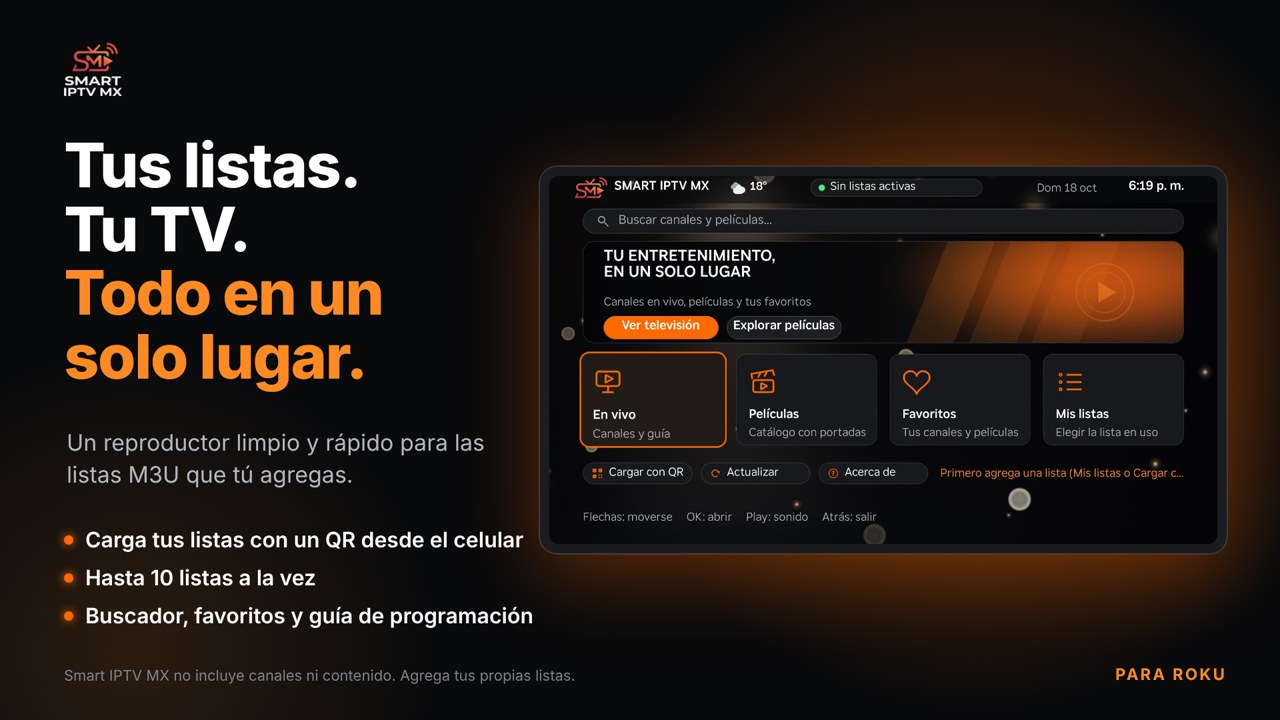
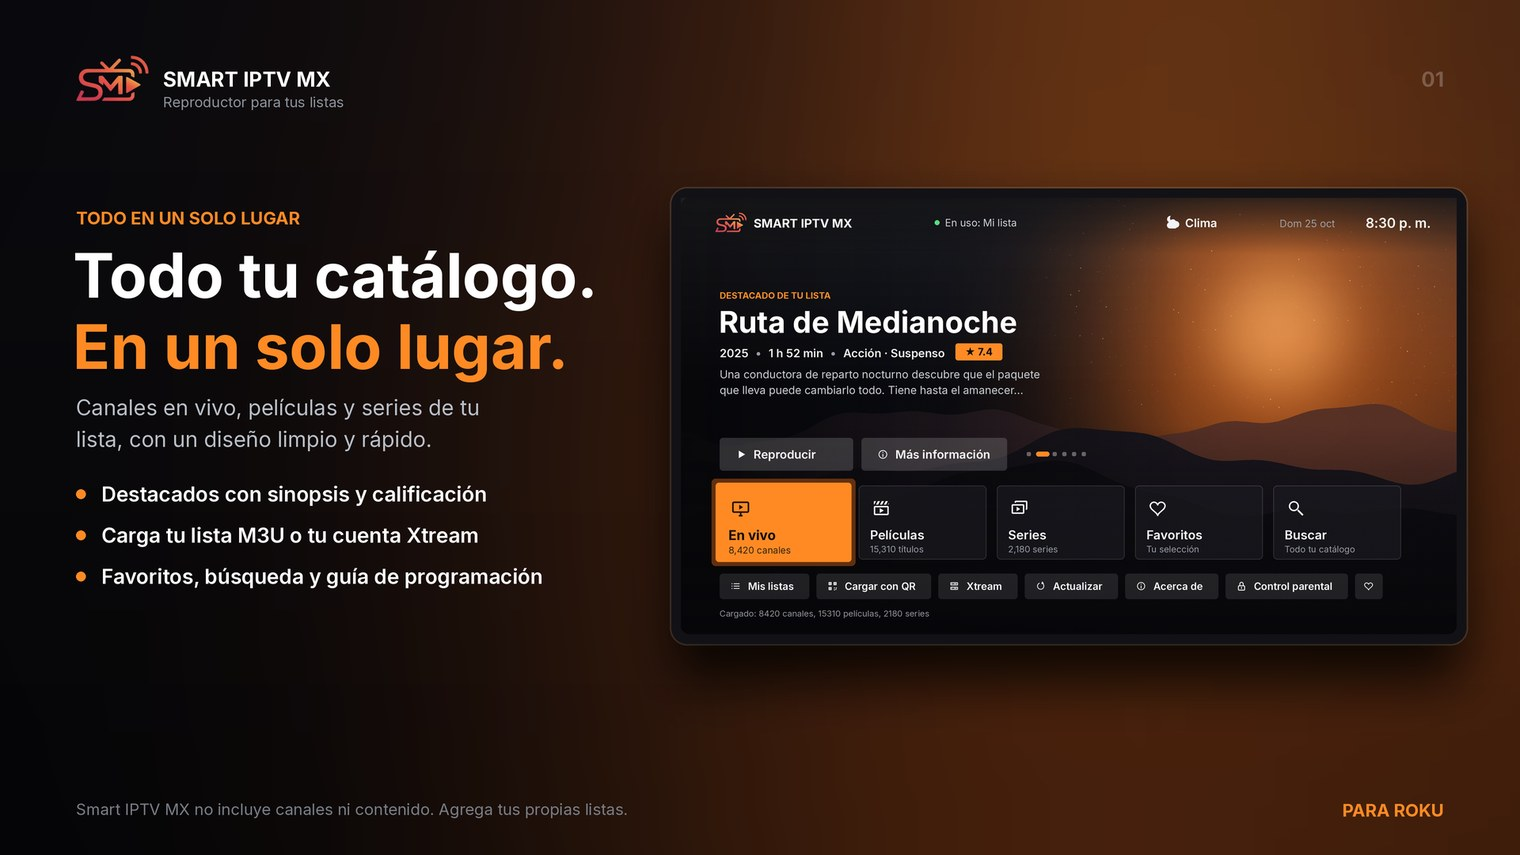
Add files via upload

diff --git a/privacidad.html b/privacidad.html
@@ -1,22 +1,29 @@
 <!doctype html><html lang="es"><head><meta charset="utf-8"><meta name="viewport" content="width=device-width,initial-scale=1"><title>Política de privacidad - Smart IPTV MX</title><style>body{margin:0;background:#090A0C;color:#E6E8EB;font-family:-apple-system,Segoe UI,Roboto,Inter,sans-serif;line-height:1.65}
 main{max-width:760px;margin:0 auto;padding:40px 22px 80px}h1{font-size:30px;margin:0 0 4px;color:#fff}h2{font-size:19px;margin:32px 0 8px;color:#FF8A24}
-p,li{color:#C9CDD3;font-size:16px}a{color:#FF8A24}.m{color:#8A9099;font-size:14px}.top{border-bottom:3px solid #FF6A00;padding-bottom:14px;margin-bottom:10px}nav{margin-top:40px;font-size:14px}</style></head><body><main>
-<div class="top"><h1>Política de privacidad</h1><div class="m">Smart IPTV MX &middot; Última actualización: 18 de octubre de 2026</div></div>
-<p>Smart IPTV MX (la "app") es un reproductor de listas M3U y M3U8 para dispositivos Roku. Esta política explica qué información usa la app y qué no.</p>
+p,li{color:#C9CDD3;font-size:16px}a{color:#FF8A24}.m{color:#8A9099;font-size:14px}.top{border-bottom:3px solid #FF6A00;padding-bottom:14px;margin-bottom:10px}nav{margin-top:40px;font-size:14px}img.b{width:100%;border-radius:14px;border:1px solid #2C3036;margin:22px 0}.btn{display:inline-block;background:#FF6A00;color:#fff;padding:12px 20px;border-radius:12px;text-decoration:none;font-weight:700}.faq b{color:#fff}</style></head><body><main>
+<div class="top"><h1>Política de privacidad</h1><div class="m">Smart IPTV MX &middot; Última actualización: 25 de octubre de 2026</div></div>
+<p>Smart IPTV MX (la "app") es un reproductor de listas M3U y M3U8 y de cuentas Xtream para dispositivos Roku. Esta política explica qué información usa la app y qué no.</p>
 <h2>1. Lo que NO hacemos</h2>
-<p>La app no crea cuentas, no muestra anuncios, no usa herramientas de análisis o rastreo y no vende ni comparte datos personales con terceros.</p>
+<p>La app no crea cuentas, no muestra anuncios, no usa herramientas de análisis o rastreo propias y no vende ni comparte datos personales con terceros.</p>
 <h2>2. Información guardada en tu televisor</h2>
-<p>Tus listas, favoritos, ajustes (por ejemplo, ciudad y unidad del clima) y posiciones de reproducción se guardan únicamente en el televisor o dispositivo Roku donde instalas la app. No se envían a servidores del desarrollador. Al desinstalar la app, esa información se elimina de tu dispositivo.</p>
-<h2>3. Carga de listas desde el celular</h2>
-<p>Para cargar una lista desde tu celular, la app abre temporalmente un servidor local dentro de tu red Wi-Fi mientras la pantalla del código QR está abierta. Los datos viajan solo entre tu celular y tu televisor dentro de tu red; no pasan por internet ni por servidores del desarrollador.</p>
-<h2>4. Clima</h2>
+<p>Tus listas, cuentas Xtream (servidor, usuario y contraseña), favoritos, la fila "Seguir viendo", posiciones de reproducción, el PIN del control parental y tus ajustes (por ejemplo, idioma, ciudad y unidad del clima) se guardan únicamente en el televisor o dispositivo Roku donde instalas la app. No se envían a servidores del desarrollador. Al desinstalar la app, esa información se elimina de tu dispositivo.</p>
+<h2>3. Carga desde el celular</h2>
+<p>Para cargar una lista, una cuenta Xtream o un archivo desde tu celular, la app abre temporalmente un servidor local dentro de tu red Wi-Fi mientras la pantalla del código QR está abierta. Los datos viajan solo entre tu celular y tu televisor dentro de tu red; no pasan por internet ni por servidores del desarrollador.</p>
+<p>Si subes un archivo M3U, se guarda en el almacenamiento temporal (caché) de tu televisor para poder leerlo. Para que la app abra más rápido, también guarda ahí una copia ordenada del catálogo de tus listas. Estos archivos se borran al eliminar la lista y Roku puede borrarlos cuando necesita espacio.</p>
+<h2>4. Tus listas y cuentas</h2>
+<p>Smart IPTV MX no incluye contenido propio. Al cargar o reproducir una lista o cuenta que tú agregaste, tu dispositivo se conecta directamente a los servidores indicados en ella (por ejemplo, el servidor de tu proveedor Xtream, al que se envían tu usuario y contraseña para iniciar sesión). El tratamiento de datos de esos proveedores depende de ellos y está fuera del control del desarrollador.</p>
+<h2>5. Clima</h2>
 <p>Si usas la función de clima, la app envía la ciudad que elijas y sus coordenadas al servicio Open-Meteo (open-meteo.com) para obtener el pronóstico y la calidad del aire. No se envía tu nombre, tu correo ni identificadores personales. Puedes ver la política de ese servicio en su sitio web.</p>
-<h2>5. Contenido de tus listas</h2>
-<p>Smart IPTV MX no incluye contenido propio. Al reproducir una lista que tú agregaste, tu dispositivo se conecta directamente a los servidores indicados en ella. El tratamiento de datos de esos proveedores depende de ellos y está fuera del control del desarrollador.</p>
-<h2>6. Menores de edad</h2>
+<h2>6. Partidos de hoy</h2>
+<p>Para mostrar los partidos del día, la app consulta servicios públicos de resultados deportivos indicando solo la fecha y las ligas. No se envían datos personales ni información de tus listas; la búsqueda de los canales donde se transmite cada partido se hace dentro de tu televisor.</p>
+<h2>7. Apoyos voluntarios</h2>
+<p>La sección "Apoya el proyecto" solo muestra códigos QR. Al escanearlos, tu celular abre páginas externas de pago (como Ko-fi o Mercado Pago). La app no recibe ni guarda datos de pago; esas plataformas los tratan según sus propias políticas de privacidad.</p>
+<h2>8. Roku</h2>
+<p>Roku puede recopilar información del uso de tu dispositivo según su propia política de privacidad y entregar al desarrollador estadísticas agregadas y anónimas (por ejemplo, número de instalaciones, tiempo de uso o errores de la app) que se usan solo para mejorarla.</p>
+<h2>9. Menores de edad</h2>
 <p>La app no recopila datos de ninguna persona, incluidos los menores de edad.</p>
-<h2>7. Cambios</h2>
+<h2>10. Cambios</h2>
 <p>Si esta política cambia, se publicará aquí con una nueva fecha de actualización.</p>
-<h2>8. Contacto</h2>
+<h2>11. Contacto</h2>
 <p>Para dudas sobre esta política: <a href="mailto:jean.iptvmx@gmail.com">jean.iptvmx@gmail.com</a></p>
 <nav><a href="terminos.html">Términos de uso</a> &nbsp;|&nbsp; <a href="mailto:jean.iptvmx@gmail.com">jean.iptvmx@gmail.com</a></nav></main></body></html>

diff --git a/index.html b/index.html
@@ -1,16 +1,20 @@
-<!doctype html><html lang="es"><head><meta charset="utf-8"><meta name="viewport" content="width=device-width,initial-scale=1"><title>Smart IPTV MX - Reproductor de listas M3U para Roku</title><meta name="description" content="Reproductor de listas M3U y M3U8 para Roku. Carga tus listas con un QR desde el celular."><style>body{margin:0;background:#090A0C;color:#E6E8EB;font-family:-apple-system,Segoe UI,Roboto,Inter,sans-serif;line-height:1.65}
+<!doctype html><html lang="es"><head><meta charset="utf-8"><meta name="viewport" content="width=device-width,initial-scale=1"><title>Smart IPTV MX - Reproductor de listas M3U y cuentas Xtream para Roku</title><meta name="description" content="Reproductor de listas M3U, M3U8 y cuentas Xtream para Roku. Carga tus listas con un QR desde el celular."><style>body{margin:0;background:#090A0C;color:#E6E8EB;font-family:-apple-system,Segoe UI,Roboto,Inter,sans-serif;line-height:1.65}
 main{max-width:760px;margin:0 auto;padding:40px 22px 80px}h1{font-size:30px;margin:0 0 4px;color:#fff}h2{font-size:19px;margin:32px 0 8px;color:#FF8A24}
 p,li{color:#C9CDD3;font-size:16px}a{color:#FF8A24}.m{color:#8A9099;font-size:14px}.top{border-bottom:3px solid #FF6A00;padding-bottom:14px;margin-bottom:10px}nav{margin-top:40px;font-size:14px}img.b{width:100%;border-radius:14px;border:1px solid #2C3036;margin:22px 0}.btn{display:inline-block;background:#FF6A00;color:#fff;padding:12px 20px;border-radius:12px;text-decoration:none;font-weight:700}.faq b{color:#fff}</style></head><body><main>
-<div class="top"><h1>Smart IPTV MX</h1><div class="m">Reproductor de listas M3U y M3U8 para Roku</div></div>
+<div class="top"><h1>Smart IPTV MX</h1><div class="m">Reproductor de listas M3U, M3U8 y cuentas Xtream para Roku</div></div>
 <img class="b" src="banner.jpg" alt="Smart IPTV MX en un televisor Roku">
-<p>Smart IPTV MX está creado para que cargar tus listas sea fácil y rápido, incluso si nunca lo has hecho: escaneas un código QR con tu celular, envías tus listas y listo. La app no incluye ni distribuye contenido; tú agregas tus propias listas.</p>
+<p>Smart IPTV MX está creado para que cargar tus listas sea fácil y rápido, incluso si nunca lo has hecho: escaneas un código QR con tu celular, envías tu lista, tu cuenta Xtream o tu archivo M3U, y listo. La app no incluye ni distribuye contenido; tú agregas tus propias listas.</p>
 <h2>Qué ofrece</h2>
-<ul><li>Carga por QR desde el celular, hasta 10 listas a la vez, cada una con su guía.</li><li>Varias listas activas al mismo tiempo.</li><li>Guía de programación (XMLTV), buscador y favoritos.</li><li>Controles de reproducción, subtítulos e idioma del audio.</li><li>Las películas largas retoman donde te quedaste.</li><li>Interfaz dinámica y clima en tiempo real con pronóstico de 7 días.</li></ul>
+<ul><li>Carga por QR desde el celular: link M3U, cuenta Xtream (servidor, usuario y contraseña) o archivo M3U guardado en tu celular.</li><li>Hasta 10 listas a la vez, cada una con su guía.</li><li>Canales en vivo por categorías, con logo y guía de programación (XMLTV): lo que pasa ahora y después.</li><li>Películas y series con portadas, fichas con sinopsis y calificación, y series por temporadas y capítulos.</li><li>"Seguir viendo": retoma películas y capítulos donde te quedaste.</li><li>Partidos de hoy con marcador en vivo y los canales de tu lista donde se transmiten.</li><li>Control parental con PIN para el contenido para adultos.</li><li>Buscador, letra A-Z, favoritos, subtítulos e idioma del audio.</li><li>Clima en tiempo real con pronóstico de 7 días.</li></ul>
 <h2>Soporte</h2>
-<div class="faq"><p><b>¿Cómo cargo mi lista?</b><br>En la pantalla principal elige "Cargar con QR", escanea el código con tu celular (conectado al mismo Wi-Fi que la TV), acepta el aviso y pega el link de tu lista.</p>
+<div class="faq"><p><b>¿Cómo cargo mi lista?</b><br>En la pantalla principal elige "Cargar con QR" y escanea el código con tu celular (conectado al mismo Wi-Fi que la TV). Luego elige la pestaña que necesites: <b>Lista M3U</b> para pegar un link, <b>Cuenta Xtream</b> para escribir servidor, usuario y contraseña, o <b>Archivo</b> para subir un archivo .m3u desde tu celular.</p>
 <p><b>¿La app trae canales?</b><br>No. Es solo un reproductor; necesitas tus propias listas y los derechos para ver su contenido.</p>
 <p><b>Un canal no abre</b><br>Es probable que el servidor de ese canal esté caído. Prueba otro canal o revisa tu lista con tu proveedor.</p>
-<p><b>Se tarda en cargar</b><br>Las listas muy grandes tardan más. Usa listas ligeras y deja activas solo las que necesites.</p></div>
+<p><b>Mi lista es muy grande y tarda en cargar</b><br>Si tu proveedor te dio usuario y contraseña, cárgala como <b>Cuenta Xtream</b>: es mucho más rápida y ligera. Si tu link o archivo M3U es de un servidor Xtream, la app lo detecta y usa el modo rápido automáticamente. Las listas M3U muy grandes se leen completas la primera vez y después abren más rápido.</p>
+<p><b>¿Cómo protejo el contenido para adultos?</b><br>En el inicio entra a "Control parental", crea tu PIN de 4 dígitos y la sección para adultos quedará protegida.</p>
+<p><b>¿Cómo quito una lista?</b><br>Entra a "Mis listas", elige la lista, presiona OK y selecciona "Eliminar". Si solo quieres que no se cargue, elige "Quitar del catálogo".</p></div>
+<h2>Apoya el proyecto</h2>
+<p>Smart IPTV MX es gratis y lo desarrolla una persona independiente en México. Si te gusta y quieres apoyar su desarrollo, puedes invitar un café desde la sección "Apoya el proyecto" de la app. Es totalmente voluntario y no desbloquea funciones ni contenido.</p>
 <p>¿Dudas, errores o sugerencias? Escríbenos a <a href="mailto:jean.iptvmx@gmail.com">jean.iptvmx@gmail.com</a> e indica el modelo de tu Roku y qué ocurrió.</p>
 <p style="margin-top:24px"><a class="btn" href="mailto:jean.iptvmx@gmail.com">Contactar soporte</a></p>
 <nav><a href="privacidad.html">Política de privacidad</a> &nbsp;|&nbsp; <a href="terminos.html">Términos de uso</a></nav>

diff --git a/terminos.html b/terminos.html
@@ -1,22 +1,26 @@
 <!doctype html><html lang="es"><head><meta charset="utf-8"><meta name="viewport" content="width=device-width,initial-scale=1"><title>Términos de uso - Smart IPTV MX</title><style>body{margin:0;background:#090A0C;color:#E6E8EB;font-family:-apple-system,Segoe UI,Roboto,Inter,sans-serif;line-height:1.65}
 main{max-width:760px;margin:0 auto;padding:40px 22px 80px}h1{font-size:30px;margin:0 0 4px;color:#fff}h2{font-size:19px;margin:32px 0 8px;color:#FF8A24}
-p,li{color:#C9CDD3;font-size:16px}a{color:#FF8A24}.m{color:#8A9099;font-size:14px}.top{border-bottom:3px solid #FF6A00;padding-bottom:14px;margin-bottom:10px}nav{margin-top:40px;font-size:14px}</style></head><body><main>
-<div class="top"><h1>Términos de uso</h1><div class="m">Smart IPTV MX &middot; Última actualización: 18 de octubre de 2026</div></div>
+p,li{color:#C9CDD3;font-size:16px}a{color:#FF8A24}.m{color:#8A9099;font-size:14px}.top{border-bottom:3px solid #FF6A00;padding-bottom:14px;margin-bottom:10px}nav{margin-top:40px;font-size:14px}img.b{width:100%;border-radius:14px;border:1px solid #2C3036;margin:22px 0}.btn{display:inline-block;background:#FF6A00;color:#fff;padding:12px 20px;border-radius:12px;text-decoration:none;font-weight:700}.faq b{color:#fff}</style></head><body><main>
+<div class="top"><h1>Términos de uso</h1><div class="m">Smart IPTV MX &middot; Última actualización: 25 de octubre de 2026</div></div>
 <p>Al instalar o usar Smart IPTV MX (la "app") aceptas estos términos. Si no estás de acuerdo, no uses la app.</p>
 <h2>1. Qué es la app</h2>
-<p>Smart IPTV MX es un reproductor de listas M3U y M3U8. No incluye, no aloja, no distribuye ni vende canales, películas, series ni listas de reproducción. Todo el contenido que reproduces proviene de las listas que tú mismo agregas.</p>
+<p>Smart IPTV MX es un reproductor de listas M3U y M3U8 y de cuentas Xtream. No incluye, no aloja, no distribuye ni vende canales, películas, series, listas de reproducción ni cuentas. Todo el contenido que reproduces proviene de las listas o cuentas que tú mismo agregas.</p>
 <h2>2. Tu responsabilidad</h2>
-<p>Tú eres el único responsable de las listas que cargues y del contenido que veas con ellas. Debes contar con los derechos, licencias o suscripciones necesarios para acceder a ese contenido y cumplir las leyes aplicables en tu país. No uses la app para acceder a contenido sin autorización de sus titulares.</p>
+<p>Tú eres el único responsable de las listas, archivos y cuentas que cargues y del contenido que veas con ellos. Debes contar con los derechos, licencias o suscripciones necesarios para acceder a ese contenido y cumplir las leyes aplicables en tu país. No uses la app para acceder a contenido sin autorización de sus titulares.</p>
 <h2>3. Uso permitido</h2>
 <p>Puedes usar la app de forma personal y no comercial. No está permitido copiar, modificar, revender o redistribuir la app, ni intentar vulnerar su funcionamiento.</p>
-<h2>4. Sin garantías</h2>
-<p>La app se ofrece "tal cual", sin garantía de disponibilidad continua ni de que funcione con todas las listas o servidores. La disponibilidad, calidad y legalidad del contenido dependen de los proveedores de tus listas.</p>
-<h2>5. Limitación de responsabilidad</h2>
+<h2>4. Control parental</h2>
+<p>La app ofrece un PIN para proteger la sección para adultos. Es una herramienta de apoyo: tú eres responsable de configurarlo, guardar tu PIN y supervisar el uso del televisor por menores de edad. La clasificación del contenido depende de cómo lo organiza el proveedor de tu lista.</p>
+<h2>5. Apoyos voluntarios</h2>
+<p>La sección "Apoya el proyecto" muestra códigos QR para hacer un donativo voluntario al desarrollador desde tu celular. Apoyar no es una compra: no desbloquea funciones, contenido ni beneficios, y la app funciona igual para todos. La app no procesa pagos; los procesan plataformas externas (como Ko-fi, Stripe, PayPal o Mercado Pago) bajo sus propios términos.</p>
+<h2>6. Sin garantías</h2>
+<p>La app se ofrece "tal cual", sin garantía de disponibilidad continua ni de que funcione con todas las listas, cuentas o servidores. La disponibilidad, calidad y legalidad del contenido dependen de los proveedores de tus listas. Los marcadores deportivos, la guía de programación y el clima son informativos y pueden tener retrasos o errores.</p>
+<h2>7. Limitación de responsabilidad</h2>
 <p>Los creadores de la app no controlan ni respaldan el contenido de las listas de los usuarios y no se hacen responsables del uso que se les dé, ni de daños derivados del uso de la app o de la imposibilidad de usarla, en la medida permitida por la ley.</p>
-<h2>6. Servicios de terceros</h2>
-<p>La función de clima usa el servicio Open-Meteo, que se rige por sus propios términos. La app no controla su disponibilidad.</p>
-<h2>7. Cambios</h2>
+<h2>8. Servicios de terceros</h2>
+<p>La función de clima usa el servicio Open-Meteo y la sección "Partidos de hoy" consulta servicios públicos de resultados deportivos. Esos servicios se rigen por sus propios términos y la app no controla su disponibilidad. Los nombres de equipos y ligas que se muestran pertenecen a sus titulares; la app no está afiliada a ellos.</p>
+<h2>9. Cambios</h2>
 <p>Estos términos pueden actualizarse. La versión vigente estará siempre en esta página, con su fecha de actualización.</p>
-<h2>8. Contacto</h2>
+<h2>10. Contacto</h2>
 <p><a href="mailto:jean.iptvmx@gmail.com">jean.iptvmx@gmail.com</a></p>
 <nav><a href="privacidad.html">Política de privacidad</a> &nbsp;|&nbsp; <a href="mailto:jean.iptvmx@gmail.com">jean.iptvmx@gmail.com</a></nav></main></body></html>
